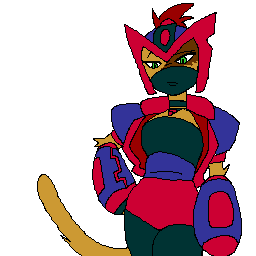
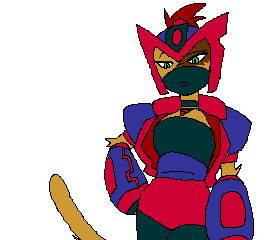
A lot of the cutscene groundwork.

Changed region(s): [[0.1875, 0.0, 0.9688, 1.0], [0.125, 0.6708, 0.25, 0.8458]]

diff --git a/main/cutscene/cutscene.c b/main/cutscene/cutscene.c
@@ -5,8 +5,19 @@
 #include <stdlib.h>
 #include <stdio.h>
 #include <esp_heap_caps.h>
+#include <string.h>
 #include "cutscene.h"
 #include "esp_random.h"
+#include "fs_wsg.h"
+
+
+//==============================================================================
+// Function Prototypes
+//==============================================================================
+static int randomInt(int lowerBoundInclusive, int upperBoundInclusive);
+static uint8_t getRandomVariationFromStyle(cutsceneStyle_t* style);
+static uint8_t getRandomVariationFromStyleIdx(cutscene_t* cutscene, uint8_t styleIdx);
+static cutsceneStyle_t* getCurrentStyle(cutscene_t* cutscene);
 
 cutscene_t* initCutscene(cutsceneCb cbFunc)
 {
@@ -14,6 +25,8 @@ cutscene_t* initCutscene(cutsceneCb cbFunc)
     cutscene->cbFunc = cbFunc;
     cutscene->lines = heap_caps_calloc(1, sizeof(list_t), MALLOC_CAP_SPIRAM);
     cutscene->styles = heap_caps_calloc(1, sizeof(list_t), MALLOC_CAP_SPIRAM);
+    cutscene->sprite = heap_caps_calloc(1, sizeof(wsg_t), MALLOC_CAP_SPIRAM);
+    cutscene->yOffset = 240;
     return cutscene;
 }
 
@@ -23,18 +36,23 @@ void addCutsceneStyle(cutscene_t* cutscene, paletteColor_t textColor, cnfsFileId
     style->textColor = textColor;
     style->spriteIdx = spriteIdx;
     style->numSpriteVariations = numSpriteVariations;
+
+    // push to tail
+    push(cutscene->styles, (void*)style);
 }
 
-void addCutsceneLine(cutscene_t* cutscene, char* title, char* body)
+void addCutsceneLine(cutscene_t* cutscene, char* title, char* body, uint8_t styleIdx)
 {
     cutsceneLine_t* line = (cutsceneLine_t*)heap_caps_calloc(1, sizeof(cutsceneLine_t), MALLOC_CAP_SPIRAM);
     line->title = (char*)heap_caps_calloc(strlen(title) + 1, sizeof(char), MALLOC_CAP_SPIRAM);
     strcpy(line->title, title);
     line->body = (char*)heap_caps_calloc(strlen(body) + 1, sizeof(char), MALLOC_CAP_SPIRAM);
     strcpy(line->body, body);
+    line->styleIdx = styleIdx;
+    line->spriteVariation = getRandomVariationFromStyleIdx(cutscene, styleIdx);
 
     // push to tail
-    push(cutscene, (void*)line);
+    push(cutscene->lines, (void*)line);
 }
 
 static int randomInt(int lowerBoundInclusive, int upperBoundInclusive)
@@ -42,43 +60,53 @@ static int randomInt(int lowerBoundInclusive, int upperBoundInclusive)
     return esp_random() % (upperBoundInclusive - lowerBoundInclusive + 1) + lowerBoundInclusive;
 }
 
-static uint8_t getRandomVariation(cutsceneStyle_t* style)
+static uint8_t getRandomVariationFromStyle(cutsceneStyle_t* style)
 {
     return randomInt(0,style->numSpriteVariations - 1);
 }
 
-static uint8_t getRandomVariation(cutscene_t* cutscene, uint8_t styleIdx)
+static uint8_t getRandomVariationFromStyleIdx(cutscene_t* cutscene, uint8_t styleIdx)
 {
-    return getRandomVariation(getAt(cutscene->styles, styleIdx));
+    return getRandomVariationFromStyle((cutsceneStyle_t*)getAtIndex(cutscene->styles, styleIdx));
+}
+
+static cutsceneStyle_t* getCurrentStyle(cutscene_t* cutscene)
+{
+    return getAtIndex(cutscene->styles, ((cutsceneLine_t*)cutscene->lines->first->val)->styleIdx);
 }
 
 void updateCutscene(cutscene_t* cutscene)
 {
     if(cutscene->yOffset > 0)
     {
-        cutscene->yOffset--;
+        cutscene->yOffset-=8;
     }
     cutscene->blinkTimer++;
+    if(cutscene->sprite->w == 0)
+    {
+        cutsceneStyle_t* style = getCurrentStyle(cutscene);
+        loadWsg(style->spriteIdx + ((cutsceneLine_t*)cutscene->lines->first->val)->spriteVariation, cutscene->sprite, true);
+    }
 }
 
 void drawCutscene(cutscene_t* cutscene, font_t* font)
 {
-    cutsceneLine_t* line = cutscene->lines->first;
+    cutsceneLine_t* line = (cutsceneLine_t*)cutscene->lines->first->val;
 
-    //drawWsgSimple(&dData->sprite, 0, -dData->offsetY);
+    drawWsgSimple(cutscene->sprite, 0, cutscene->yOffset);
 
     // if (dData->blinkTimer > 0)
     // {
     //     drawWsgSimple(&dData->spriteNext, 254 + (textColor == c525 ? 4 : 0), -dData->offsetY + 186);
     // }
-    // if(dData->offsetY <= 0)
-    // {
-    cutsceneStyle_t* style = getAt(cutscene->styles, line->styleIdx);
-    drawText(font, style->textColor, line->title, 13, 152);
+    if(cutscene->yOffset == 0)
+    {
+        cutsceneStyle_t* style = getAtIndex(cutscene->styles, line->styleIdx);
+        drawText(font, style->textColor, line->title, 13, 152);
 
-    int16_t xOff = 13;
-    int16_t yOff = 177;
-    drawTextWordWrap(font, style->textColor, line->body, &xOff, &yOff, 253, 230);
-    // }
+        int16_t xOff = 13;
+        int16_t yOff = 177;
+        drawTextWordWrap(font, style->textColor, line->body, &xOff, &yOff, 253, 230);
+    }
 }
 

diff --git a/main/modes/games/platformer/megaPulseEx.c b/main/modes/games/platformer/megaPulseEx.c
@@ -34,6 +34,7 @@
 #include <inttypes.h>
 #include "mainMenu.h"
 #include "fill.h"
+#include "cutscene.h"
 
 //==============================================================================
 // Constants
@@ -97,6 +98,8 @@ struct platformer_t
 
     menuMegaRenderer_t* menuRenderer;
     menu_t* menu;
+
+    cutscene_t* cutscene;
 };
 
 //==============================================================================
@@ -105,6 +108,8 @@ struct platformer_t
 void drawPlatformerHud(font_t* font, mgGameData_t* gameData);
 void drawPlatformerTitleScreen(font_t* font, mgGameData_t* gameData);
 void changeStateReadyScreen(platformer_t* self);
+void updateCutsceneScreen(platformer_t* self);
+void drawCutsceneScreen(platformer_t* self);
 void updateReadyScreen(platformer_t* self);
 void drawReadyScreen(font_t* font, mgGameData_t* gameData);
 void changeStateGame(platformer_t* self);
@@ -148,6 +153,7 @@ static void mg_backgroundDrawCallback(int16_t x, int16_t y, int16_t w, int16_t h
 void changeStateLevelSelect(platformer_t* self);
 void updateLevelSelect(platformer_t* self);
 void drawLevelSelect(platformer_t* self);
+void goToReadyScreen();
 
 //==============================================================================
 // Variables
@@ -767,6 +773,19 @@ void changeStateReadyScreen(platformer_t* self)
     self->update = &updateReadyScreen;
 }
 
+void updateCutsceneScreen(platformer_t* self)
+{
+    updateCutscene(self->cutscene);
+    drawCutsceneScreen(self);
+}
+
+void drawCutsceneScreen(platformer_t* self)
+{
+    mg_drawTileMap(&(self->tilemap));
+    mg_drawEntities(&(self->entityManager));
+    drawCutscene(self->cutscene, &self->font);
+}
+
 void updateReadyScreen(platformer_t* self)
 {
     // Clear the display
@@ -858,7 +877,13 @@ void changeStateGame(platformer_t* self)
 
     soundStop(true);
 
-    self->update = &updateReadyScreen;
+    //every level starts with a cutscene
+    self->cutscene = initCutscene(goToReadyScreen);
+    addCutsceneStyle(self->cutscene, c555, SAWTOOTH_PORTRAIT_0_WSG, 4);
+    addCutsceneLine(self->cutscene, "sawtooth", "This is the first test.", 0);
+    addCutsceneLine(self->cutscene, "sawtooth", "And this is the second test. yo yo yo yo yo yo yo yo yo yo yo yo yo waddup.", 0);
+
+    self->update = &updateCutsceneScreen;
 }
 
 static void mg_backgroundDrawCallback(int16_t x, int16_t y, int16_t w, int16_t h, int16_t up, int16_t upNum)
@@ -1626,4 +1651,9 @@ void drawLevelSelect(platformer_t* self)
                 - ((self->gameData.frameCount >> 2) & 0b0111),
             highScoreNewEntryColors[self->gameData.frameCount % 4]);
     }
+}
+
+void goToReadyScreen()
+{
+    platformer->update = &updateReadyScreen;
 }

diff --git a/main/cutscene/cutscene.h b/main/cutscene/cutscene.h
@@ -7,6 +7,8 @@
 #include "hdw-btn.h"
 #include "font.h"
 #include "cnfs_image.h"
+#include "wsg.h"
+
 
 /**
  * @brief A callback which is called when this cutscene concludes. Use it to unpause your game loop.
@@ -46,10 +48,13 @@ typedef struct
     uint8_t blinkTimer; ///< Increments and overflows to make the next graphic blink.
     bool a_down;        ///< True when the a button is held.
     uint8_t yOffset;    ///< Decrements to slide the character portait in from below.
+    wsg_t* sprite;      ///< The sprite rendered behind the text.
 } cutscene_t;
 
 cutscene_t* initCutscene(cutsceneCb cbFunc) __attribute__((warn_unused_result));
 void addCutsceneStyle(cutscene_t* cutscene, paletteColor_t color, cnfsFileIdx_t spriteIdx, uint8_t numPoseVariations);
-void addCutsceneLine(cutscene_t* cutscene, char* title, char* body);
+void addCutsceneLine(cutscene_t* cutscene, char* title, char* body, uint8_t styleIdx);
 void updateCutscene(cutscene_t* cutscene);
 void drawCutscene(cutscene_t* cutscene, font_t* font);
+
+#endif

diff --git a/main/utils/linked_list.h b/main/utils/linked_list.h
@@ -97,7 +97,7 @@ void* shift(list_t* list);
 bool addIdx(list_t* list, void* val, uint16_t index);
 void addBefore(list_t* list, void* val, node_t* entry);
 void addAfter(list_t* list, void* val, node_t* entry);
-void* getAt(list_t* list, uint16_t index);
+void* getAtIndex(list_t* list, uint16_t index);
 void* removeIdx(list_t* list, uint16_t index);
 void* removeEntry(list_t* list, node_t* entry);
 void* removeVal(list_t* list, void* val);
